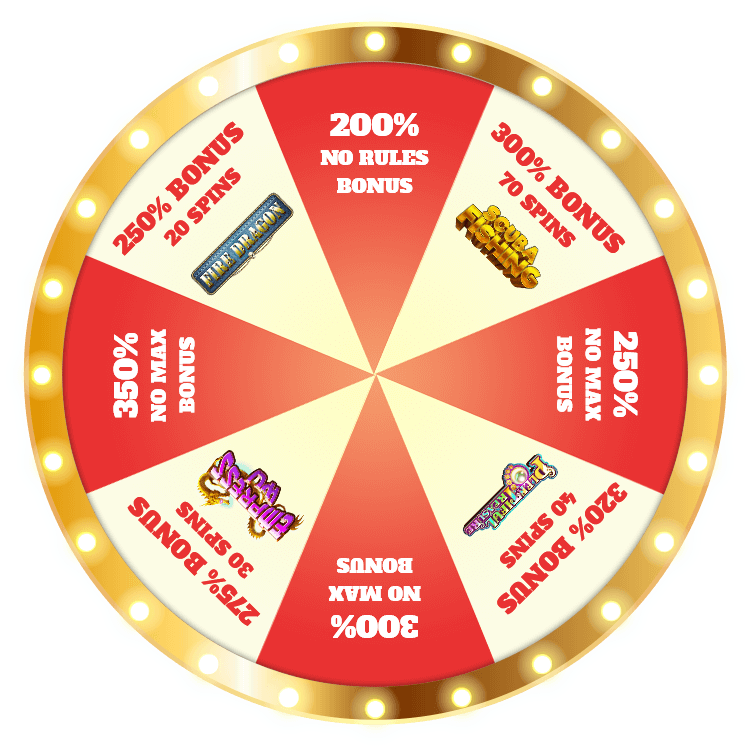
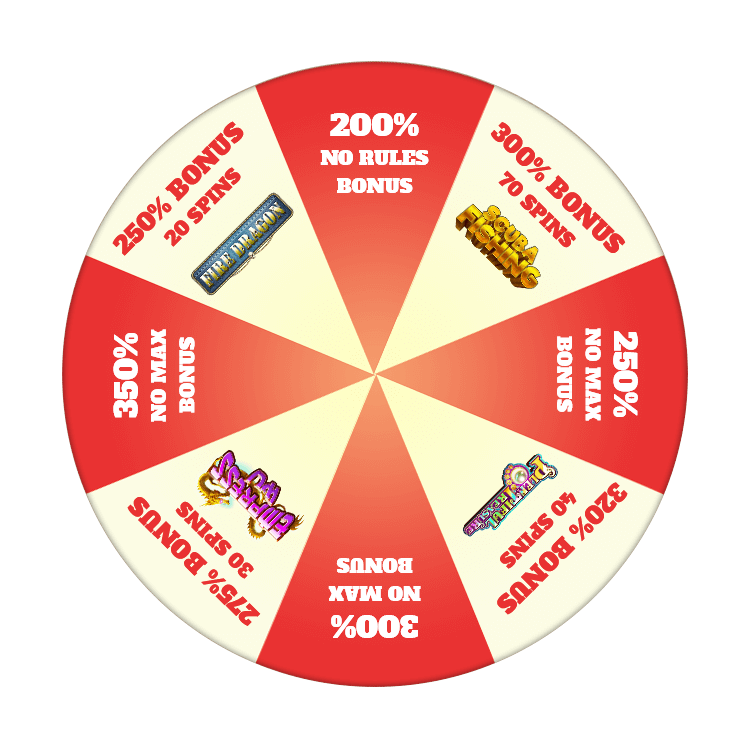
optimization

diff --git a/src/components/SpinTheWheel/Wheel.js b/src/components/SpinTheWheel/Wheel.js
@@ -1,5 +1,6 @@
 import styled, { keyframes } from 'styled-components';
 import wheelImage from '../../images/wheel.png';
+import wheelBackgroundImage from '../../images/wheelBackground.png';
 
 const spin = (nextWheelPosition, currentWheelPosition) => {
   return keyframes`
@@ -12,9 +13,19 @@ const spin = (nextWheelPosition, currentWheelPosition) => {
   `;
 };
 
-const Wheel = styled.div`
+export const WheelBackground = styled.div`
   position: absolute;
   z-index: 0;
+  top: 0;
+  left: 0;
+  width: 100%;
+  height: 100%;
+  background: url(${wheelBackgroundImage}) center center / cover no-repeat;
+`;
+
+const Wheel = styled.div`
+  position: absolute;
+  z-index: 1;
   top: 0;
   left: 0;
   width: 100%;
@@ -26,7 +37,6 @@ const Wheel = styled.div`
   animation-duration: ${props => props.spinDuration}s;
   animation-fill-mode: both;
   animation-timing-function: cubic-bezier(0.44, 0.14, 0.58, 1.11);
-  /* animation-timing-function: linear; */
 `;
 
 export default Wheel;

diff --git a/src/components/SpinTheWheel/index.js b/src/components/SpinTheWheel/index.js
@@ -2,7 +2,7 @@ import React from 'react';
 import bonuses, { getRandomBonus } from '../../data/bonuses';
 
 import Container from './Container';
-import Wheel from './Wheel';
+import Wheel, { WheelBackground } from './Wheel';
 import Highlighter from './Highlighter';
 import Button from './Button';
 
@@ -56,6 +56,7 @@ class SpinTheWheel extends React.Component {
 
     return (
       <Container>
+        <WheelBackground />
         <Wheel
           currentWheelPosition={currentWheelPosition}
           nextWheelPosition={nextWheelPosition}

diff --git a/src/App.js b/src/App.js
@@ -39,6 +39,16 @@ class App extends React.Component {
     });
   };
 
+  componentDidMount() {
+    window.addEventListener('DOMContentLoaded', event => {
+      const coupons = bonuses.map(bonus => bonus.image);
+      coupons.forEach(coupon => {
+        const img = new Image();
+        img.src = coupon;
+      });
+    });
+  }
+
   render() {
     const { bonus, spinStatus } = this.state;
     console.log(spinStatus);

diff --git a/src/components/Footer.js b/src/components/Footer.js
@@ -4,7 +4,7 @@ import styled from 'styled-components';
 import CouponsTable from './CouponsTable/';
 import Terms from './Terms/';
 
-import redLineImage from '../images/red-line.png';
+import redLineImage from '../images/red-line.svg';
 import logoImage from '../images/logo.png';
 
 const FooterContainer = styled.div`

diff --git a/src/components/Terms/index.js b/src/components/Terms/index.js
@@ -2,7 +2,7 @@ import React from 'react';
 import styled from 'styled-components';
 import TermsData from '../../data/terms';
 
-import termsImage from '../../images/terms.png';
+import termsImage from '../../images/terms.svg';
 
 const TermsContainer = styled.div`
   position: absolute;

diff --git a/src/components/ModalBonus.js b/src/components/ModalBonus.js
@@ -2,7 +2,7 @@ import React from 'react';
 import styled from 'styled-components';
 import { Modal } from 'react-bootstrap';
 
-import closeImage from '../images/close.png';
+import closeImage from '../images/close.svg';
 
 const CouponContainer = styled.div`
   position: relative;

diff --git a/src/components/Body.js b/src/components/Body.js
@@ -1,5 +1,5 @@
 import styled from 'styled-components';
-import backgroundImage from '../images/background.png';
+import backgroundImage from '../images/background.jpg';
 
 export default styled.div`
   position: relative;
